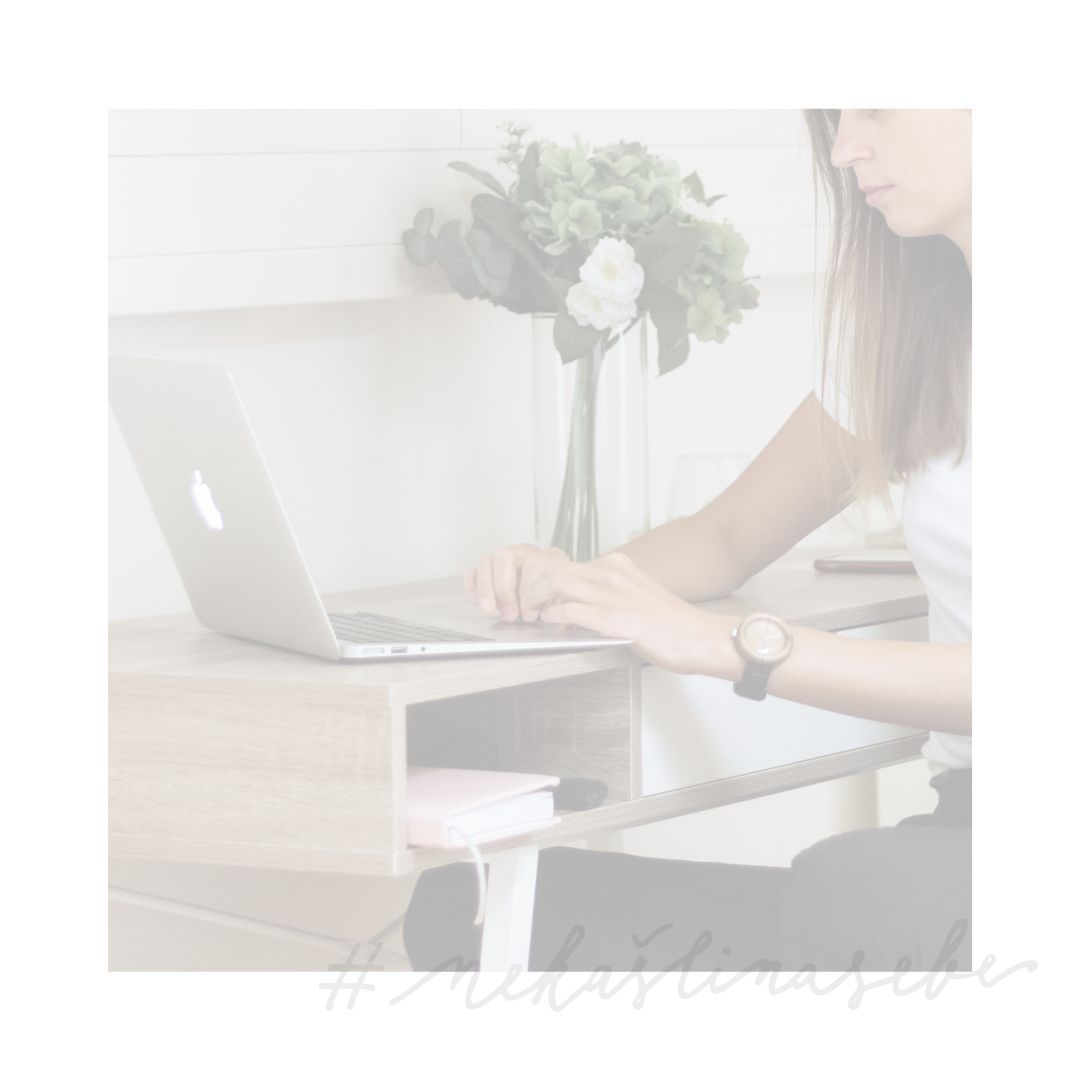
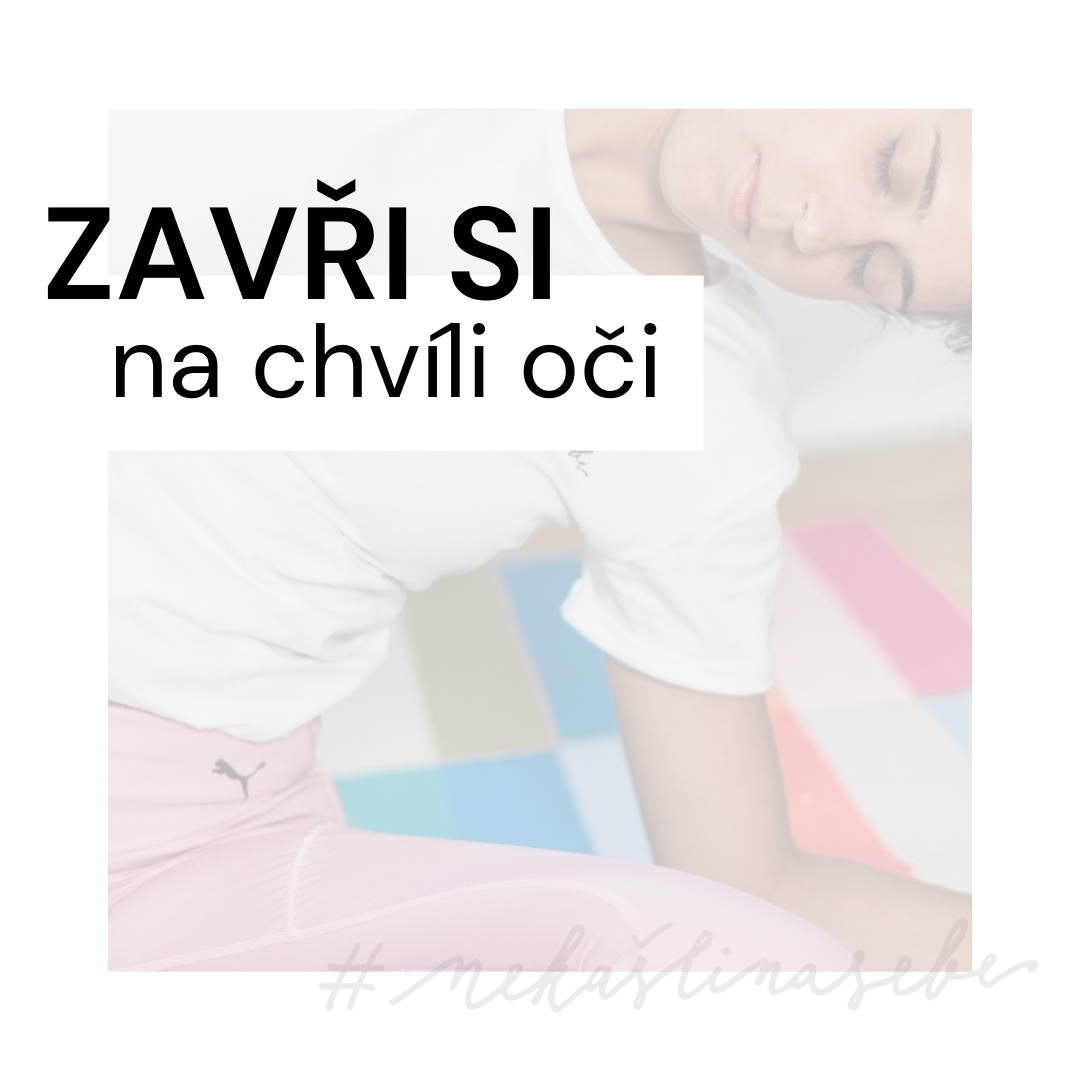
tip3

diff --git a/tips/25-13/tip3.html b/tips/25-13/tip3.html
@@ -75,12 +75,13 @@
   </nav>
 
   <main id="main">
+
     <section class="section">
       <div class="container">
         <div class="row mb-8 align-items-center">
           <div class="col-md-8,9" data-aos="fade-up">
             <h2>3.tip #nekaslinasebe</h2>
-            <p>Tip tady ještě není. </p>
+            <p>Čtvrteční tip je poměrně jednoduchý. Dnes si jen tak na chvilku zavři oči. Nic víc.</p>
           </div>
         </div>
       </div>
@@ -89,37 +90,44 @@
         <div class="container">
           <div class="row align-items-stretch">
             <div class="col-md-8" data-aos="fade-up">
-              <img src="/assets/img/_template/img_3_big.jpg" alt="Image" class="img-fluid">
+              <img src="/assets/img/25-13/img_3_big.jpg" alt="Image" class="img-fluid">
             </div>
-            <div class="col-md-4 ml-auto mb-5" data-aos="fade-up" data-aos-delay="100">
+            <div class="col-md-3 ml-auto" data-aos="fade-up" data-aos-delay="100">
               <div class="sticky-content">
                 <h3 class="h3"><b>Jak na tip #nekaslinasebe v praxi?</b></h3>
                 <p class="mb-4"><span class="text-muted">Pokud máš:</span></p>
 
                 <div class="mb-5">
-                  <p><b>1 minutku</b>:</p>
-                  <p><b>5 minut</b>:</p>
-                  <p><b>15 minut</b>:</p>
+                  <p><b>1 minutku</b>: Pokud sedíš nebo stojíš, zkus se na chvilku o něco <b>opřít a na 30-60 sekund si
+                      zavřít oči.</b></p>
+                  <p><b>5 minut</b>: Zkus si na chvíli sednout nebo lehnout. Pokud sedíš, <b>opři si záda na židli,
+                      chodidla dej na zem a ruce si polož na břicho nebo na stehna</b>. Nastav si timer (pokud tě tlačí
+                    čas) a <b>zavři si oči.</b></p>
+                  <p><b>15 minut</b>: Následuj 5minutový tip, zavři si oči a zkus si <b>proskenovat tělo od prstů od
+                      nohou až k hlavě a nazpátek.</b> Zaměř se na to, jestli máš v těle nějaké <b>napětí nebo tě někde
+                      něco táhne</b>. Až místo na těle objevíš, zkus se k němu na chvíli <b>vrátit a chvilku věnuj
+                      veškerou energii do tohoto místa. Polož si na dané místo ruce a postupně je dávej od sebe do
+                      prostoru.</b></p>
+                    </div>
+                  </div>
                 </div>
               </div>
+              <div class="col-md-12 ml-auto mt-3">
+                  <p>PS: Technika, která je zmiňovaná v 15minutovém tipu se nazývá <b>"body scan"</b> Můžeš si ji najít
+                    na youtube a zkusit i vedený body scan. <b>Ať se daří, Terka.</b></p>
+                </div>
+                <p> Vše, co tu vidíš, děláme <b>zadarmo</b>. Kdybys nás chtěl/a podpořit, budeme rádi, když mrkneš na naše
+                  <b><a href="https://kpsychologovi.cz/shop/" target="_blank">nekaslinasebe produkty</a></b>, na <b><a
+                      href="https://www.kurzyproradost.cz/kurz/jak-na-uzkosti-obavy-stres-a-emoce-353?pid=774708"
+                      target="_blank">kurz o úzkostech</a></b> nebo <b><a
+                      href="https://skillmea.cz/online-kurzy/emocni-fitko-jak-na-emoce">kurz emočního fitka: jak na
+                      emoce</a></b>, který tě naučí efektivně pracovat s emocemi. Právě díky tomu budeme moct pokračovat v
+                  poskytování
+                  každodenních #nekaslinasebe tipů zdarma. <b>Novinkou je knížka <a href="https://obchod.portal.cz/hry-a-procvicovani/nekasli-na-sebe" target="_blank">Nekašli na sebe: Tvůj parťák na cestě s emocemi.</a></b> Předem moc děkujeme.
+                  </p>
             </div>
           </div>
-          <div class="col-md-12 ml-auto mt-3">
-            <p><b>PS:</b></p>
-          </div>
-          <div class="col-md-12 ml-auto mt-3">
-            <p> Vše, co tu vidíš, děláme <b>zadarmo</b>. Kdybys nás chtěl/a podpořit, budeme rádi, když mrkneš na naše
-              <b><a href="https://kpsychologovi.cz/shop/" target="_blank">nekaslinasebe produkty</a></b>, na <b><a
-                  href="https://www.kurzyproradost.cz/kurz/jak-na-uzkosti-obavy-stres-a-emoce-353?pid=774708"
-                  target="_blank">kurz o úzkostech</a></b> nebo <b><a
-                  href="https://skillmea.cz/online-kurzy/emocni-fitko-jak-na-emoce">kurz emočního fitka: jak na
-                  emoce</a></b>, který tě naučí efektivně pracovat s emocemi. Právě díky tomu budeme moct pokračovat v
-              poskytování
-              každodenních #nekaslinasebe tipů zdarma. Předem moc děkujeme.
-            </p>
-          </div>
         </div>
-      </div>
     </section>
   </main><!-- End #main -->
 
